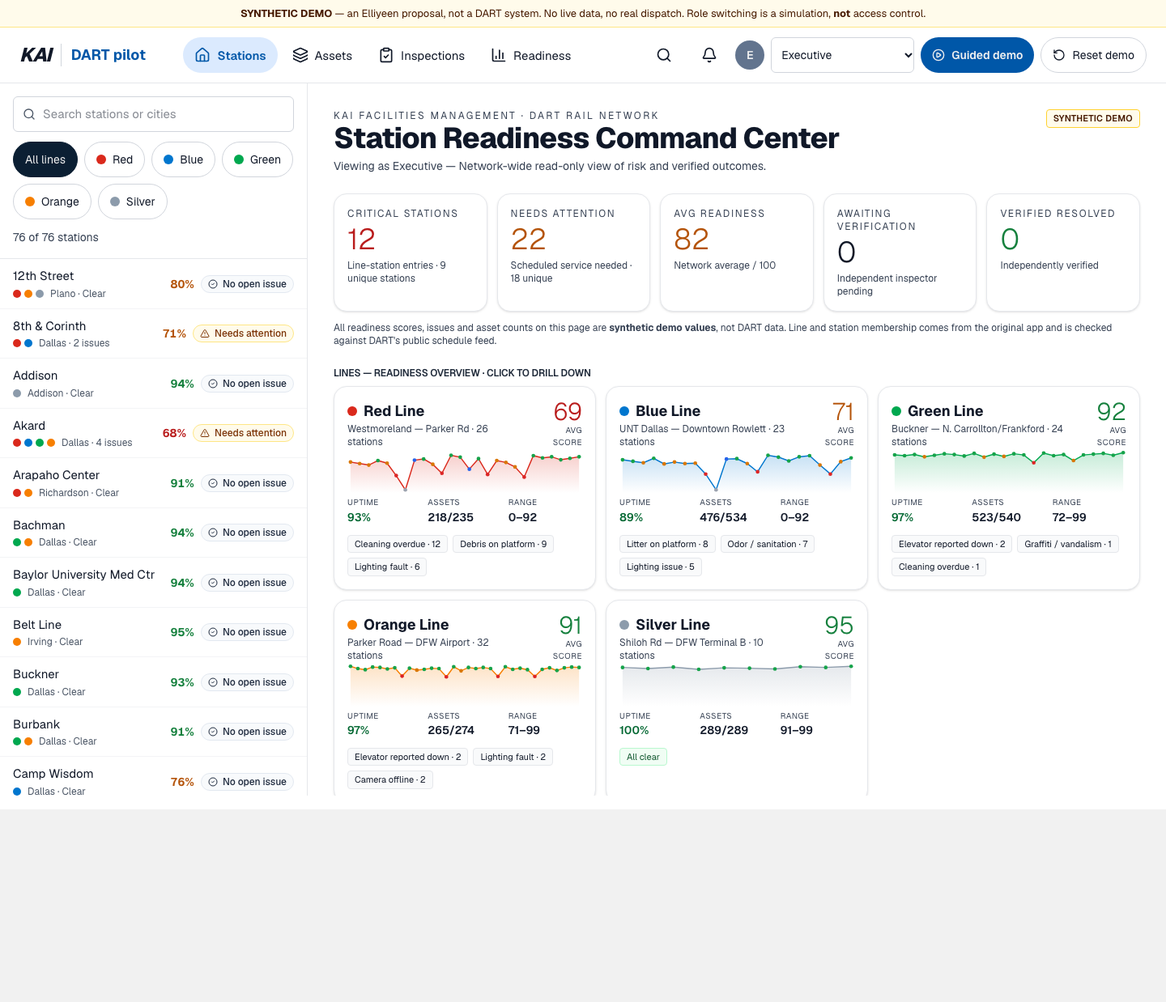
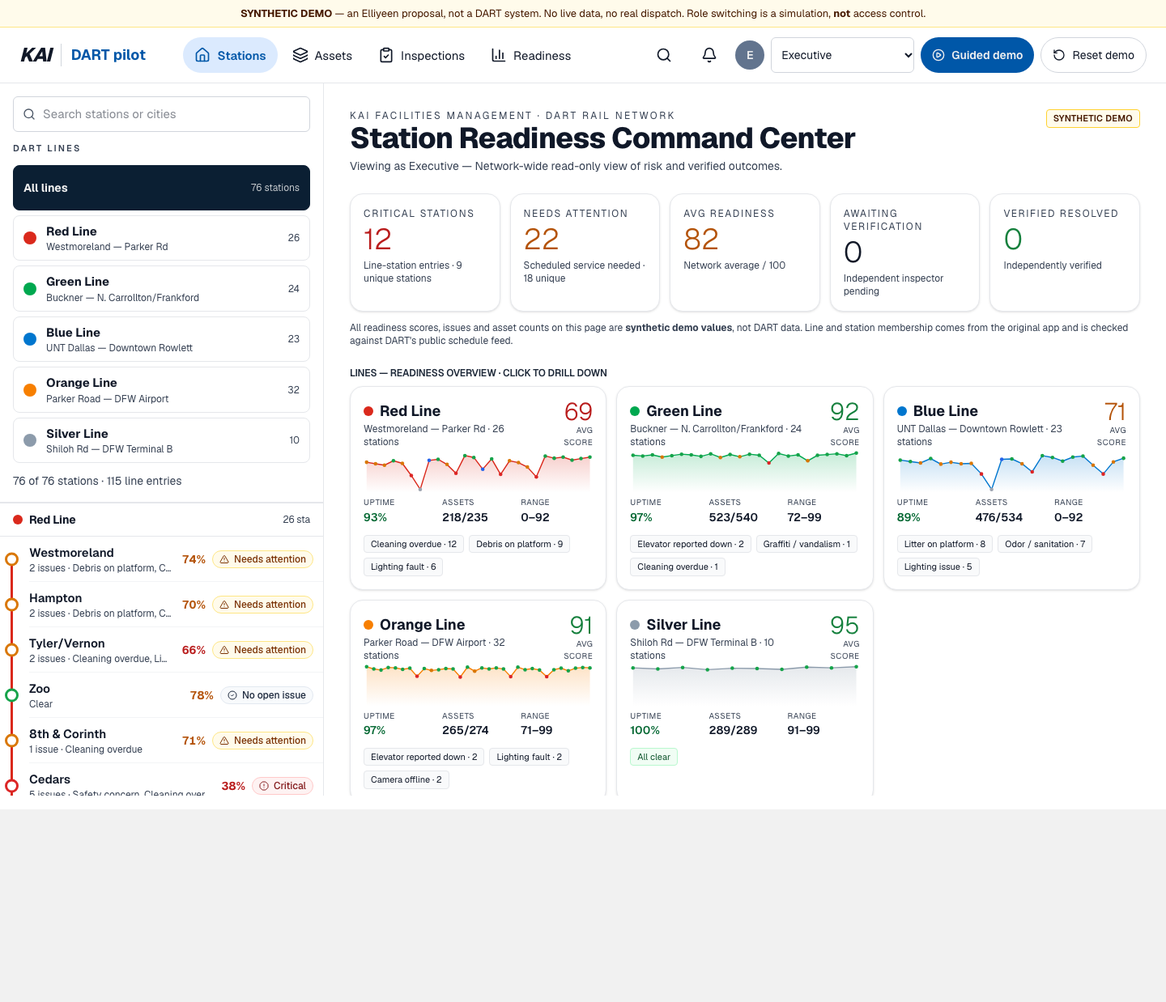
Stations organized by line colour; second section photo; pilot copy; slide-in/out drawer
- Directory grouped by line in the original order (Red, Green, Blue, Orange, Silver) as a
  connected timeline with status nodes, plus the DART Lines picker (dot, terminals, count)
- Statement section uses parkeroad.jpg; evidence box removed
- Pilot line: "The Standard in clean transportation in North Texas"
- Station dashboard side drawer slides in/out (toggle, reopens when an asset is selected)
- Command Center rendered once (fixes duplicate heading/id)

Claude-Session: https://claude.ai/code/session_01LW3JRasRXyxE1xttsifT9B

diff --git a/src/components/stations/LineDirectory.tsx b/src/components/stations/LineDirectory.tsx
@@ -1,0 +1,67 @@
+"use client";
+import Link from "next/link";
+import { ISSUE_LABELS, LINES, LINE_BY_ID, STATIONS, STATION_RECORDS, type LineId, type StationRecord } from "@/lib/stations";
+import { recordStatus, scoreTone, type RecStatus } from "@/lib/stations/readiness";
+import { useDemo } from "@/lib/demo/store";
+import { StatusIndicator } from "./ui";
+
+const NODE: Record<RecStatus, string> = { good: "#16A34A", warning: "#D97706", critical: "#DC2626", closed: "#9CA3AF", deploying: "#2563EB", assigned: "#2563EB", awaiting: "#4F46E5", verified: "#16A34A" };
+
+/** Lines selector (dot, name, terminals, count) — the "DART Lines" list from the original app. */
+export function LinePicker({ value, onChange }: { value: LineId | null; onChange: (l: LineId | null) => void }) {
+  const row = "w-full text-left min-h-14 px-3 py-2 rounded-lg border flex items-center gap-3 focus-visible:outline-2 focus-visible:outline-offset-2 focus-visible:outline-[#0057A8]";
+  return (
+    <div role="group" aria-label="Filter by line" className="space-y-1.5" data-testid="line-picker">
+      <button type="button" aria-pressed={value === null} onClick={() => onChange(null)} className={`${row} ${value === null ? "bg-[#0B1F33] text-white border-[#0B1F33]" : "bg-white border-gray-200 hover:bg-gray-50"}`}>
+        <span className="text-sm" style={{ fontWeight: 700 }}>All lines</span><span className={`ml-auto text-xs ${value === null ? "text-white/80" : "text-gray-700"}`}>{STATIONS.length} stations</span>
+      </button>
+      {LINES.map((l) => {
+        const n = STATION_RECORDS.filter((r) => r.lineId === l.id).length, on = value === l.id;
+        return (
+          <button key={l.id} type="button" aria-pressed={on} onClick={() => onChange(on ? null : l.id)} className={`${row} ${on ? "bg-amber-50 border-[#0B1F33]" : "bg-white border-gray-200 hover:bg-gray-50"}`}>
+            <span aria-hidden="true" className="w-4 h-4 rounded-full shrink-0" style={{ background: l.color, boxShadow: on ? `0 0 0 4px ${l.color}33` : undefined }} />
+            <span className="min-w-0"><span className="block text-[15px] text-gray-900" style={{ fontWeight: 700 }}>{l.name}</span><span className="block text-xs text-gray-700 truncate">{l.terminals}</span></span>
+            <span className="ml-auto text-xs text-gray-700 shrink-0">{n}</span>
+          </button>
+        );
+      })}
+    </div>
+  );
+}
+
+function Row({ r, first, last, color, score }: { r: StationRecord; first: boolean; last: boolean; color: string; score: number }) {
+  const demo = useDemo();
+  const st = recordStatus(r, demo);
+  const issues = r.demo.issues.length;
+  return (
+    <li className="relative pl-9">
+      <span aria-hidden="true" className="absolute left-[13px] w-[3px]" style={{ background: color, top: first ? "50%" : 0, bottom: last ? "50%" : 0 }} />
+      <span aria-hidden="true" className="absolute left-[6px] top-1/2 -translate-y-1/2 w-[17px] h-[17px] rounded-full bg-white border-[3px]" style={{ borderColor: NODE[st] }} />
+      <Link href={`/stations/${r.id}`} data-testid="station-row" data-station={r.id} className="flex items-center justify-between gap-3 min-h-14 pr-3 py-2 border-b border-gray-100 hover:bg-gray-50 focus-visible:outline-2 focus-visible:-outline-offset-2 focus-visible:outline-[#0057A8]">
+        <span className="min-w-0">
+          <span className="block text-[15px] text-gray-900 truncate" style={{ fontWeight: 600 }}>{r.name}</span>
+          <span className="block text-xs text-gray-700 truncate">{issues ? `${issues} issue${issues > 1 ? "s" : ""} · ${r.demo.issues.slice(0, 2).map((i) => ISSUE_LABELS[i] ?? i).join(", ")}` : "Clear"}</span>
+        </span>
+        <span className="flex items-center gap-2 shrink-0"><span className="text-sm tabular-nums" style={{ fontWeight: 700, color: scoreTone(score) }}>{r.demo.status === "closed" ? "—" : `${score}%`}</span><StatusIndicator status={st} size="sm" /></span>
+      </Link>
+    </li>
+  );
+}
+
+/** Every line-station entry, grouped by line in the original order, as a connected timeline. */
+export default function LineDirectory({ records, line }: { records: StationRecord[]; line: LineId | null }) {
+  const groups = LINES.filter((l) => !line || l.id === line).map((l) => ({ l, recs: records.filter((r) => r.lineId === l.id) })).filter((g) => g.recs.length);
+  return (
+    <div data-testid="station-list">
+      {groups.map(({ l, recs }) => (
+        <section key={l.id} aria-labelledby={`grp-${l.id}`} data-testid={`group-${l.id}`}>
+          <h3 id={`grp-${l.id}`} className="sticky top-0 z-10 bg-white/95 backdrop-blur flex items-center gap-2 px-4 py-2.5 border-y border-gray-200 text-sm" style={{ fontWeight: 700 }}>
+            <span aria-hidden="true" className="w-3 h-3 rounded-full" style={{ background: l.color }} />{LINE_BY_ID[l.id].name}<span className="ml-auto text-xs font-normal text-gray-700">{recs.length} sta</span>
+          </h3>
+          <ul>{recs.map((r, i) => <Row key={r.id} r={r} first={i === 0} last={i === recs.length - 1} color={l.color} score={r.demo.score} />)}</ul>
+        </section>
+      ))}
+      {groups.length === 0 && <p className="p-6 text-sm text-gray-800" data-testid="no-results">No stations match. Clear the search or choose another line.</p>}
+    </div>
+  );
+}

diff --git a/src/components/stations/StationsBrowser.tsx b/src/components/stations/StationsBrowser.tsx
@@ -2,16 +2,13 @@
 import { useRouter, useSearchParams } from "next/navigation";
 import { useCallback, useMemo } from "react";
 import { Search } from "lucide-react";
-import { LINES, STATIONS, filterStations, type LineId } from "@/lib/stations";
-import { effectiveStatus } from "@/lib/stations/effective";
-import { useDemo } from "@/lib/demo/store";
-import { LineFilter, StationRow } from "./ui";
+import { LINES, STATIONS, STATION_RECORDS, type LineId } from "@/lib/stations";
+import LineDirectory, { LinePicker } from "./LineDirectory";
 import NetworkOverview from "./NetworkOverview";
 
 export default function StationsBrowser() {
   const sp = useSearchParams();
   const router = useRouter();
-  const demo = useDemo();
   const lineParam = sp.get("line");
   const line = (LINES.some((l) => l.id === lineParam) ? lineParam : null) as LineId | null;
   const q = sp.get("q") ?? "";
@@ -24,36 +21,32 @@ export default function StationsBrowser() {
     router.replace(qs ? `/stations?${qs}` : "/stations", { scroll: false });
   }, [sp, router]);
 
-  const list = useMemo(() => filterStations({ line, q }), [line, q]);
-  const carry = new URLSearchParams(); if (line) carry.set("line", line); if (q) carry.set("q", q);
+  const recs = useMemo(() => {
+    const t = q.trim().toLowerCase();
+    return STATION_RECORDS.filter((r) => (!line || r.lineId === line) && (!t || r.name.toLowerCase().includes(t) || r.city.toLowerCase().includes(t)));
+  }, [line, q]);
+  const uniq = useMemo(() => new Set(recs.map((r) => r.name)).size, [recs]);
 
   return (
-    <div className="flex flex-col lg:grid lg:grid-cols-[minmax(320px,380px)_1fr] lg:h-[calc(100vh-7.5rem)]">
-      <section aria-label="Station directory" className="order-2 lg:order-none lg:border-r border-gray-200 flex flex-col min-h-0">
+    <div className="flex flex-col lg:grid lg:grid-cols-[minmax(340px,400px)_1fr] lg:grid-rows-1 lg:h-[calc(100vh-7.5rem)]">
+      <section aria-label="Station directory" className="order-2 lg:order-none lg:col-start-1 lg:row-start-1 lg:border-r border-gray-200 flex flex-col min-h-0 lg:overflow-y-auto">
         <div className="p-4 space-y-3 border-b border-gray-200">
-          <h2 className="sr-only">Station directory</h2>
+          <h2 className="sr-only">Station directory by line</h2>
           <div className="relative">
             <label htmlFor="station-search" className="sr-only">Search stations</label>
             <Search className="w-4 h-4 absolute left-3 top-1/2 -translate-y-1/2 text-gray-600" aria-hidden="true" />
             <input id="station-search" type="search" value={q} placeholder="Search stations or cities" onChange={(e) => setParams({ q: e.target.value || null })}
               className="w-full min-h-11 pl-9 pr-3 border border-gray-300 rounded-md text-[15px] focus-visible:outline-2 focus-visible:outline-[#0057A8]" />
           </div>
-          <LineFilter value={line} onChange={(l) => setParams({ line: l })} />
-          <p className="text-sm text-gray-700" aria-live="polite" data-testid="result-count">{list.length} of {STATIONS.length} stations{line ? ` on the ${line} line` : ""}</p>
+          <p className="text-[11px] tracking-[0.2em] uppercase text-gray-700" style={{ fontWeight: 600 }}>DART lines</p>
+          <LinePicker value={line} onChange={(l) => setParams({ line: l })} />
+          <p className="text-sm text-gray-700" aria-live="polite" data-testid="result-count">{uniq} of {STATIONS.length} stations{line ? ` on the ${line} line` : ""} · {recs.length} line entries</p>
         </div>
-        <ul className="overflow-y-auto grow" data-testid="station-list">
-          {list.map((s) => (
-            <li key={s.key}>
-              <StationRow station={s} status={effectiveStatus(s, demo)} href={`/stations/${s.key}`} />
-            </li>
-          ))}
-          {list.length === 0 && <li className="p-6 text-sm text-gray-800" data-testid="no-results">No stations match. Clear the search or choose another line.</li>}
-        </ul>
+        <div className="grow"><LineDirectory records={recs} line={line} /></div>
       </section>
-      <section aria-label="Detail" className="hidden lg:block overflow-y-auto min-h-0">
+      <section aria-label="Network overview" className="order-1 lg:order-none lg:col-start-2 lg:row-start-1 lg:overflow-y-auto min-h-0 border-b border-gray-200 lg:border-b-0">
         <NetworkOverview line={line} onSelect={go} />
       </section>
-      <section aria-label="Network summary" className="order-1 lg:hidden border-b border-gray-200"><NetworkOverview line={line} onSelect={go} /></section>
     </div>
   );
 }

diff --git a/src/components/stations/StationDashboard.tsx b/src/components/stations/StationDashboard.tsx
@@ -1,7 +1,7 @@
 "use client";
 import Link from "next/link";
 import { useState } from "react";
-import { ArrowLeft } from "lucide-react";
+import { ArrowLeft, PanelRightClose, PanelRightOpen } from "lucide-react";
 import { LINE_BY_ID, addressOf, formatCoords, linePositions, type Station } from "@/lib/stations";
 import { effectiveStatus } from "@/lib/stations/effective";
 import { useDemo } from "@/lib/demo/store";
@@ -16,6 +16,7 @@ import StationFocusMap from "./dashboard/StationFocusMap";
 export default function StationDashboard({ station }: { station: Station }) {
   const demo = useDemo();
   const [asset, setAsset] = useState<TwinAsset["id"]>("platform-b");
+  const [drawerOpen, setDrawerOpen] = useState(true);
   const status = effectiveStatus(station, demo);
   const isDemo = station.key === demo.wo.stationKey;
   const persona = PERSONA_BY_ROLE[demo.role];
@@ -23,9 +24,14 @@ export default function StationDashboard({ station }: { station: Station }) {
 
   return (
     <article aria-labelledby="st-h" data-testid="station-detail" data-station={station.key} className="p-4 lg:p-6 space-y-4">
-      <div className="grid xl:grid-cols-[minmax(0,1fr)_360px] gap-4 items-start">
+      <div className={`grid items-start gap-4 transition-[grid-template-columns,gap] duration-300 ease-out motion-reduce:transition-none ${drawerOpen ? "xl:grid-cols-[minmax(0,1fr)_360px]" : "xl:grid-cols-[minmax(0,1fr)_0px] xl:gap-0"}`} data-testid="dash-grid" data-drawer={drawerOpen ? "open" : "closed"}>
         <div className="space-y-4 min-w-0">
-          <Link href="/stations" className="inline-flex items-center gap-1.5 min-h-11 text-sm text-gray-800 hover:text-black"><ArrowLeft className="w-4 h-4" aria-hidden="true" />All stations</Link>
+          <div className="flex items-center justify-between gap-3">
+            <Link href="/stations" className="inline-flex items-center gap-1.5 min-h-11 text-sm text-gray-800 hover:text-black"><ArrowLeft className="w-4 h-4" aria-hidden="true" />All stations</Link>
+            {allowed && <button type="button" data-testid="drawer-toggle" aria-expanded={drawerOpen} aria-controls="side-drawer" onClick={() => setDrawerOpen((o) => !o)}
+              className="inline-flex items-center gap-2 min-h-11 px-4 rounded-full border border-gray-300 bg-white text-sm font-semibold hover:bg-gray-50 focus-visible:outline-2 focus-visible:outline-offset-2 focus-visible:outline-[#0057A8]">
+              {drawerOpen ? <PanelRightClose className="w-4 h-4" aria-hidden="true" /> : <PanelRightOpen className="w-4 h-4" aria-hidden="true" />}{drawerOpen ? "Hide details" : "Show details"}</button>}
+          </div>
           <header className="flex flex-wrap items-end justify-between gap-4">
             <div className="space-y-2">
               <p className="text-xs tracking-[0.2em] text-gray-700 uppercase">Infrastructure digital twin</p>
@@ -50,7 +56,7 @@ export default function StationDashboard({ station }: { station: Station }) {
           ) : (
             <>
               <KpiRow demo={demo} status={status} isDemoStation={isDemo} issueCount={station.demo.issues.length} station={station} />
-              {isDemo ? <AkardTwin demo={demo} selected={asset} onSelect={setAsset} /> : (
+              {isDemo ? <AkardTwin demo={demo} selected={asset} onSelect={(id) => { setAsset(id); setDrawerOpen(true); }} /> : (
                 <section aria-labelledby="loc-h" className="rounded-2xl border border-gray-200 bg-white shadow-sm overflow-hidden">
                   <h2 id="loc-h" className="sr-only">Station location map</h2>
                   <StationFocusMap station={station} />
@@ -62,7 +68,12 @@ export default function StationDashboard({ station }: { station: Station }) {
             </>
           )}
         </div>
-        {allowed && <div className="xl:sticky xl:top-20">{isDemo ? <AssetDrawer demo={demo} assetId={asset} /> : <IssuesDrawer station={station} />}</div>}
+        {allowed && (
+          <div id="side-drawer" data-testid="side-drawer" aria-hidden={!drawerOpen} inert={!drawerOpen}
+            className={`xl:sticky xl:top-20 overflow-hidden xl:overflow-visible transition-all duration-300 ease-out motion-reduce:transition-none ${drawerOpen ? "opacity-100 translate-x-0 max-h-[4000px] visible" : "opacity-0 xl:translate-x-full max-h-0 invisible"}`}>
+            {isDemo ? <AssetDrawer demo={demo} assetId={asset} /> : <IssuesDrawer station={station} />}
+          </div>
+        )}
       </div>
     </article>
   );

diff --git a/tests/e2e/directory.spec.ts b/tests/e2e/directory.spec.ts
@@ -7,16 +7,22 @@ test.describe("station directory", () => {
   test("lists every unique original station and the counts add up", async ({ page }) => {
     await page.goto("stations");
     await expect(page.getByTestId("result-count")).toHaveText(new RegExp(`^${UNIQUE_NAMES.length} of ${UNIQUE_NAMES.length} stations`));
+    await expect(page.getByTestId("station-row")).toHaveCount(BASE.length);              // one row per original line-station entry
     expect(new Set(await rowNames(page))).toEqual(new Set(UNIQUE_NAMES));
+    // organized by line colour, in the original line order
+    const heads = await page.locator('[data-testid^="group-"] h3').allInnerTexts();
+    expect(heads.map((h) => h.split("\n")[0])).toEqual(["Red Line", "Green Line", "Blue Line", "Orange Line", "Silver Line"]);
     await noHorizontalOverflow(page);
   });
 
   for (const line of ["red", "blue", "green", "orange", "silver"]) {
     test(`${line} line filter shows exactly that line's stations`, async ({ page }) => {
       await page.goto("stations");
-      await page.getByRole("group", { name: "Filter by line" }).getByRole("button", { name: new RegExp(`^${line}$`, "i") }).click();
+      await page.getByRole("group", { name: "Filter by line" }).getByRole("button", { name: new RegExp(`^${line} line`, "i") }).click();
       const expected = new Set(BASE.filter((b) => b.lineId === line).map((b) => b.name));
       await expect(page.getByTestId("result-count")).toContainText(`${expected.size} of`);
+      await expect(page.getByTestId("station-row")).toHaveCount(BASE.filter((b) => b.lineId === line).length);
+      await expect(page.locator('[data-testid^="group-"]')).toHaveCount(1);
       await expect(page).toHaveURL(new RegExp(`line=${line}`));
       expect(new Set(await rowNames(page))).toEqual(expected);
     });
@@ -25,7 +31,7 @@ test.describe("station directory", () => {
   test("search narrows the list and a deep link restores it", async ({ page }) => {
     await page.goto("stations");
     await page.getByLabel("Search stations").fill("akard");
-    await expect(page.getByTestId("station-row")).toHaveCount(1);
+    await expect(page.getByTestId("station-row")).toHaveCount(4);                         // Akard serves four lines
     await page.goto("stations?line=silver&q=carrollton");
     await expect(page.getByTestId("station-row")).toHaveCount(1);
     await expect(page.getByLabel("Search stations")).toHaveValue("carrollton");

diff --git a/src/components/landing/assets.ts b/src/components/landing/assets.ts
@@ -5,15 +5,15 @@ export const img = (file: string) => `${basePath}/images/dart/${file}`;
 export const IMAGES = {
   hero: { file: "20260314_083035.jpg", alt: "Yellow-and-white DART train at a station platform with its doors open" },
   observe: { file: "20260223_191335.jpg", alt: "Park Lane Station platform at night, looking along the track" },
-  understand: { file: "parkeroad.jpg", alt: "Blue DART train at a platform at night with a yellow safety bollard" },
+  understand: { file: "DartredlineParker.jpg", alt: "Teal DART train signed for Parker Road arriving at a platform at night" },
   coordinate: { file: "20260304_135142.jpg", alt: "DART light rail train on an elevated guideway between concrete structures" },
   verify: { file: "20260227_124144.jpg", alt: "Park Lane Station sign with a DART train arriving on a clear day" },
   lineupData: { file: "20260223_195547.jpg", alt: "DART rail system map posted in a station, showing the Red, Blue, Green and Orange lines" },
   lineupOps: { file: "DartredlineParker.jpg", alt: "Teal DART train signed for Parker Road arriving at a platform at night" },
   lineupIntel: { file: "20260314_083035.jpg", alt: "Yellow-and-white DART train at a station platform with its doors open" },
-  statement: { file: "DartredlineParker.jpg", alt: "Teal DART train signed for Parker Road arriving at a platform at night" },
+  statement: { file: "parkeroad.jpg", alt: "Blue DART train arriving at an elevated station platform at night" },
   lineStation: { file: "20260227_124144.jpg", alt: "Park Lane Station sign with a DART train arriving on a clear day" },
   lineCar: { file: "20260314_083035.jpg", alt: "Yellow-and-white DART train at a station platform with its doors open" },
-  lineExperience: { file: "parkeroad.jpg", alt: "Blue DART train at a platform at night with a yellow safety bollard" },
+  lineExperience: { file: "20260304_135142.jpg", alt: "DART light rail train on an elevated guideway between concrete structures" },
   cta: { file: "20260227_124144.jpg", alt: "Park Lane DART Station" },
 } as const;

diff --git a/src/components/landing/sections.tsx b/src/components/landing/sections.tsx
@@ -68,7 +68,7 @@ export function HeroIntro() {
 
 export function ProofSection() {
   return (
-    <section id="standard" className="relative overflow-hidden py-24 sm:py-32 lg:py-44 text-white">
+    <section id="standard" className="relative overflow-hidden py-28 sm:py-40 lg:py-56 text-white">
       <Image src={img(IMAGES.statement.file)} alt={IMAGES.statement.alt} fill sizes="100vw" className="object-cover object-center" />
       <div className="absolute inset-0 bg-linear-to-b from-black/70 via-black/55 to-black/80" />
       <div className="relative z-10 max-w-4xl mx-auto px-6 lg:px-8 text-center">
@@ -78,29 +78,8 @@ export function ProofSection() {
             <span className="text-white/85">Enjoy your ride in North Texas.</span>
           </h2>
         </FadeUp>
-        <FadeUp delay={120}>
-          <div className="mt-14 max-w-2xl mx-auto text-left text-gray-900"><EvidencePanel /></div>
-        </FadeUp>
       </div>
     </section>
-  );
-}
-
-export function EvidencePanel() {
-  return (
-    <figure className="border border-gray-200 bg-white p-6 rounded-lg">
-      <p className="text-[11px] tracking-[0.2em] uppercase text-gray-600 mb-3">Verified public source</p>
-      <blockquote className="text-lg font-light text-gray-900 leading-snug">
-        DART&rsquo;s FY2026 customer survey reports record satisfaction, and still names bus reliability, safety, train cleanliness and disruption communication as areas to improve.
-      </blockquote>
-      <figcaption className="mt-4 text-sm text-gray-600">
-        Source:{" "}
-        <a className="underline underline-offset-2 hover:text-black" href="https://prod.dart.org/about/news-and-events/newsreleases/newsrelease-detail/dart-earns-record-net-promoter-score-as-rider-satisfaction-reaches-highest-level-since-2019" target="_blank" rel="noopener noreferrer">
-          DART news release, FY2026 Net Promoter Score
-        </a>
-        . Classification: public statement by DART.
-      </figcaption>
-    </figure>
   );
 }
 

diff --git a/tests/e2e/landing.spec.ts b/tests/e2e/landing.spec.ts
@@ -15,6 +15,7 @@ test("landing: no tournament content, CTAs reach the platform, tabs and accordio
   await expect(page.getByText("This is the new DART standard.")).toBeVisible();
   await expect(page.getByText("Enjoy your ride in North Texas.")).toBeVisible();
   await expect(page.getByText("Mission", { exact: true })).toHaveCount(0);
+  await expect(page.getByText("Verified public source")).toHaveCount(0);
   // segmented rider tabs
   await expect(page.getByRole("heading", { name: "Clean. Safe. Intelligent." })).toBeVisible();
   await expect(page.getByText("The ride", { exact: true })).toHaveCount(0);
@@ -33,7 +34,7 @@ test("landing: no tournament content, CTAs reach the platform, tabs and accordio
 test("pilot section names the three pilot stations; nothing is shown as live", async ({ page }) => {
   await page.goto("");
   await expect(page.getByTestId("pilot-title")).toHaveText("Pilot for Park Lane, Akard and Spring Valley Station");
-  await expect(page.getByText("to improve the readiness of each station to set the standard for clean transportation in North Texas.")).toBeVisible();
+  await expect(page.getByText("The Standard in clean transportation in North Texas", { exact: true })).toBeVisible();
   await expect(page.getByText("Bringing stations online.")).toHaveCount(0);
   const legend = page.getByTestId("rollout-legend");
   await expect(legend).toContainText("Pilot site (proposed) · 3");

diff --git a/tests/e2e/demo.spec.ts b/tests/e2e/demo.spec.ts
@@ -100,6 +100,18 @@ test.describe("executive demo and workflow", () => {
     await expect(page.getByTestId("ds-public")).toContainText("closure NOT confirmed");
   });
 
+  test("side drawer slides out and back in", async ({ page }) => {
+    await page.goto("stations/akard");
+    const drawer = page.getByTestId("side-drawer"), toggle = page.getByTestId("drawer-toggle");
+    await expect(drawer).toBeVisible(); await expect(toggle).toHaveAttribute("aria-expanded", "true");
+    await toggle.click();
+    await expect(page.getByTestId("dash-grid")).toHaveAttribute("data-drawer", "closed");
+    await expect(drawer).toBeHidden(); await expect(toggle).toHaveAttribute("aria-expanded", "false"); await expect(toggle).toContainText("Show details");
+    await page.getByTestId("twin-platform-a").click();                     // selecting an asset reopens it
+    await expect(drawer).toBeVisible(); await expect(page.getByTestId("asset-drawer")).toHaveAttribute("data-asset", "platform-a");
+    await toggle.click(); await expect(drawer).toBeHidden(); await toggle.click(); await expect(drawer).toBeVisible();
+  });
+
   test("demo labels persist on every surface", async ({ page }) => {
     for (const path of ["stations", "stations/akard", "stations/inspections"]) {
       await page.goto(path);

diff --git a/src/components/landing/RolloutSection.tsx b/src/components/landing/RolloutSection.tsx
@@ -25,7 +25,7 @@ export default function RolloutSection() {
       <div className="max-w-7xl mx-auto px-6 lg:px-8 grid lg:grid-cols-[minmax(0,5fr)_minmax(0,6fr)] gap-10 lg:gap-16 items-center">
         <FadeUp>
           <h2 className="text-4xl sm:text-5xl font-light tracking-[-0.02em] leading-[1.05]" data-testid="pilot-title">Pilot for Park Lane, Akard and Spring Valley Station</h2>
-          <p className="mt-6 text-xl text-gray-800 leading-relaxed font-light">to improve the readiness of each station to set the standard for clean transportation in North Texas.</p>
+          <p className="mt-6 text-xl text-gray-800 leading-relaxed font-light">The Standard in clean transportation in North Texas</p>
           <p className="sr-only" data-testid="rollout-connected">{count("connected")} stations connected to live DART data</p>
           <div className="mt-8 flex flex-col sm:flex-row gap-3">
             <Link href="/stations" className="font-ui inline-flex items-center justify-center min-h-11 px-8 text-[13px] font-bold tracking-[0.05em] text-white hover:opacity-90" style={{ background: "#0057A8" }}>Explore the stations</Link>

diff --git a/src/lib/stations/lines.ts b/src/lib/stations/lines.ts
@@ -5,8 +5,8 @@ export interface LineInfo { id: LineId; name: string; short: string; color: stri
 // Colors follow the original app's line palette. Terminals are the original app's labels.
 export const LINES: LineInfo[] = [
   { id: "red",    name: "Red Line",    short: "Red",    color: "#DA291C", text: "#B01E13", terminals: "Westmoreland — Parker Rd" },
-  { id: "blue",   name: "Blue Line",   short: "Blue",   color: "#0076CE", text: "#005A9C", terminals: "UNT Dallas — Downtown Rowlett" },
   { id: "green",  name: "Green Line",  short: "Green",  color: "#00A84F", text: "#00703A", terminals: "Buckner — N. Carrollton/Frankford" },
+  { id: "blue",   name: "Blue Line",   short: "Blue",   color: "#0076CE", text: "#005A9C", terminals: "UNT Dallas — Downtown Rowlett" },
   { id: "orange", name: "Orange Line", short: "Orange", color: "#F77F00", text: "#A85500", terminals: "Parker Road — DFW Airport" },
   { id: "silver", name: "Silver Line", short: "Silver", color: "#8C9BAB", text: "#505C69", terminals: "Shiloh Rd — DFW Terminal B" },
 ];
